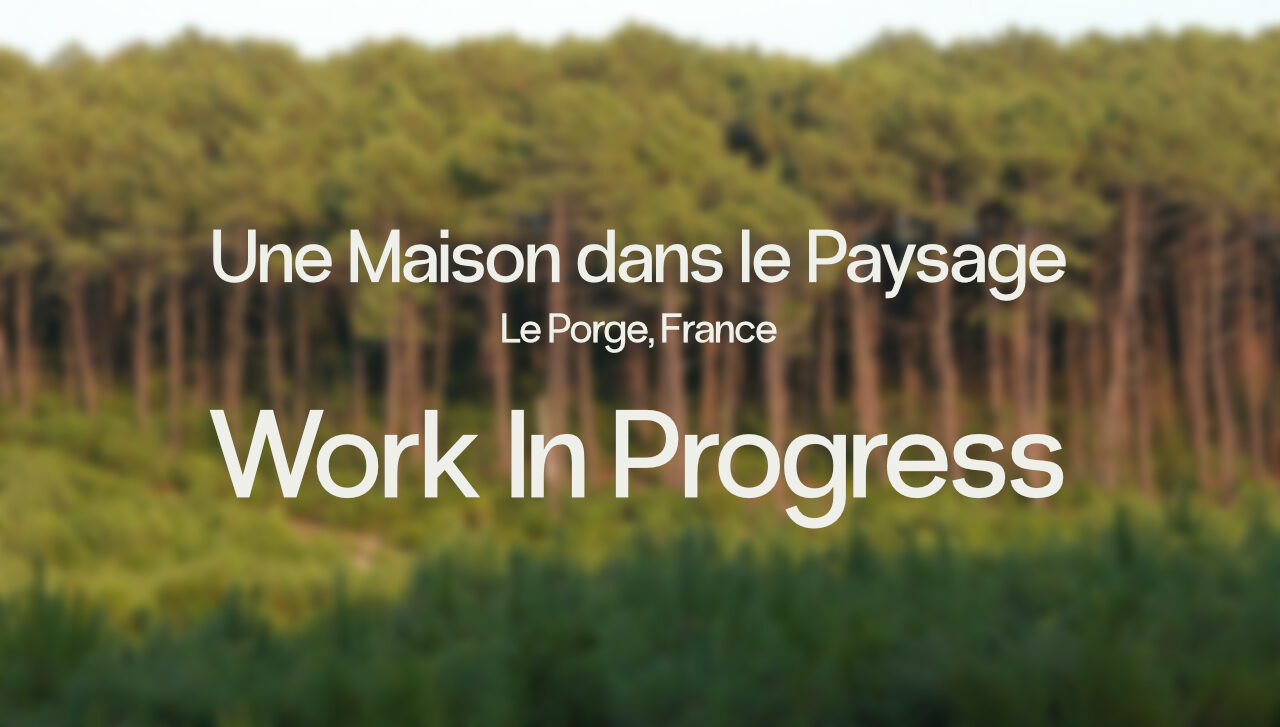
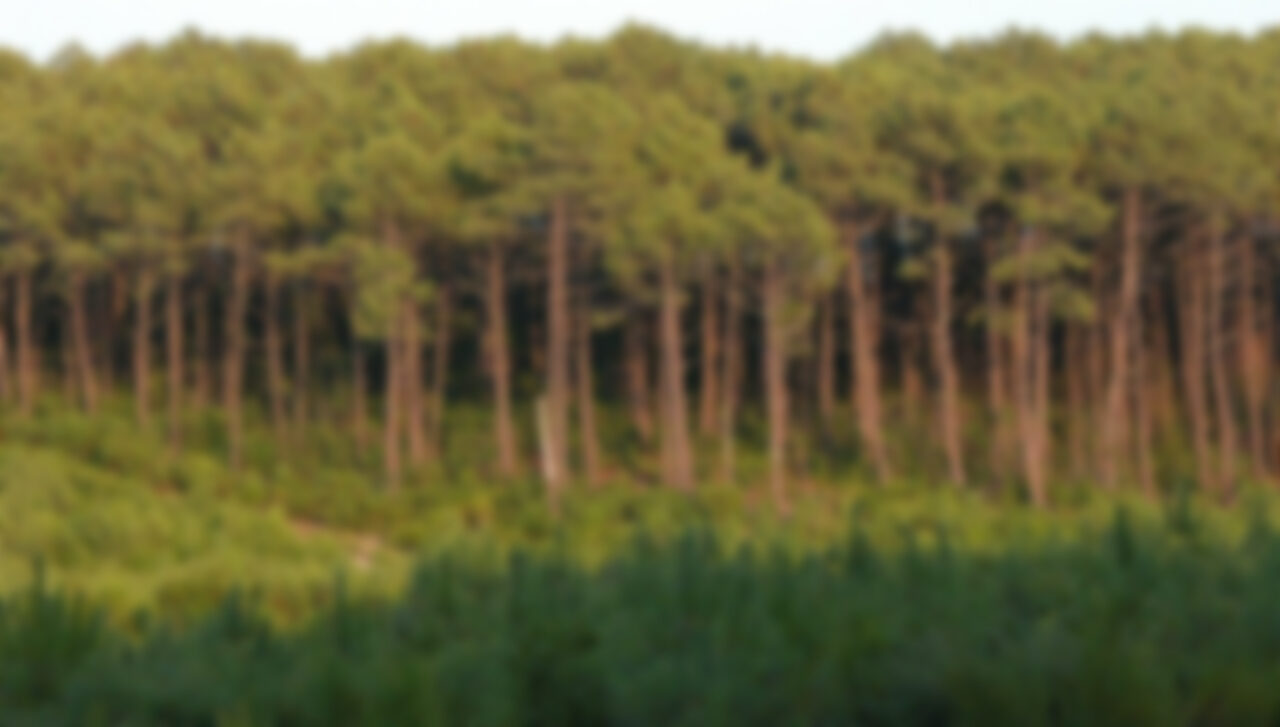
Add files via upload

Changed region(s): [[0.1562, 0.5447, 0.8438, 0.7263], [0.1562, 0.3026, 0.8438, 0.4237], [0.375, 0.4237, 0.625, 0.4842]]

diff --git a/supra-studio-nextjs/lib/projects.ts b/supra-studio-nextjs/lib/projects.ts
@@ -23,8 +23,8 @@ export const PROJECTS: Project[] = [
     location: "Sabaudia, Latina, Italia",
     type: "Aménagement extérieur",
     programme: "Jardin, piscine et terrasse d'une villa familiale",
-    surface: "450 m²",
-    annee: "2024",
+    surface: "300 m²",
+    annee: "2026",
     description: [
       "Niché entre pins parasols et essences méditerranéennes, ce jardin prolonge une villa familiale près de Sabaudia. Nous avons pensé chaque séquence — pergola, piscine, terrasse ombragée — comme une pièce à part entière de la maison, où la limite entre intérieur et extérieur s'efface.",
       "La palette végétale, choisie pour résister au climat local et évoluer avec les saisons, s'accorde aux matériaux en terre cuite et à la pierre existante, pour un jardin qui semble avoir toujours été là.",
@@ -40,10 +40,10 @@ export const PROJECTS: Project[] = [
     cat: "Architecture & architecture d'intérieur",
     name: "Maison Kléber",
     location: "Bordeaux, Gironde, France",
-    type: "Rénovation complète",
-    programme: "Appartement — chambre, salon et bureau",
-    surface: "85 m²",
-    annee: "2024",
+    type: "Construction neuve",
+    programme: "Maison familiale — loft inversé et rooftop",
+    surface: "120 m²",
+    annee: "2026",
     description: [
       "Cette rénovation complète d'un appartement bordelais a permis de redistribuer les espaces autour d'une circulation plus fluide, entre chambre, salon et bureau. Nous avons privilégié le bois clair, les rangements sur-mesure et une lumière naturelle abondante pour créer un lieu à la fois fonctionnel et apaisant.",
       "Chaque détail — de la bibliothèque intégrée au choix des luminaires — a été pensé pour accompagner le quotidien de ses habitants sur le long terme.",
@@ -56,10 +56,10 @@ export const PROJECTS: Project[] = [
     cat: "Architecture d'intérieur",
     name: "Casa Duy",
     location: "Rome, Lazio, Italia",
-    type: "Aménagement intérieur",
-    programme: "Salon et salle à manger d'un appartement particulier",
-    surface: "70 m²",
-    annee: "2023",
+    type: "Rénovation intérieure",
+    programme: "Ouverture des espaces de vie et redisposition des pièces",
+    surface: "81 m²",
+    annee: "2025",
     description: [
       "Casa Duy réinvente un appartement romain autour d'une palette chaleureuse de bois et de tons crème, où chaque pièce dialogue avec la lumière naturelle. Le salon et la salle à manger s'organisent autour d'une bibliothèque sur-mesure, point d'ancrage du lieu.",
       "Le mobilier, choisi avec soin, mêle pièces contemporaines et objets plus intemporels, pour un intérieur sensible, sans être figé dans un style unique.",
@@ -75,10 +75,10 @@ export const PROJECTS: Project[] = [
     cat: "Architecture d'intérieur",
     name: "Brasserie",
     location: "Paris, France",
-    type: "Aménagement commercial",
-    programme: "Salle, bar et cuisine ouverte d'une brasserie",
-    surface: "180 m²",
-    annee: "2023",
+    type: "Rénovation professionnelle complète",
+    programme: "Salle de restauration, bar, cuisine principale et secondaire, sanitaires",
+    surface: "205 m²",
+    annee: "2026",
     description: [
       "Pour cette brasserie parisienne, nous avons dessiné un espace où marbre vert, laiton et bois habillent le comptoir et la salle, dans une ambiance à la fois chaleureuse et intemporelle. La circulation entre bar, cuisine ouverte et salle a été repensée pour fluidifier le service.",
       "Chaque matériau a été choisi pour vieillir avec élégance, dans un lieu pensé pour accueillir aussi bien un déjeuner rapide qu'un dîner prolongé.",
@@ -91,10 +91,10 @@ export const PROJECTS: Project[] = [
     cat: "Architecture, architecture d'intérieur & paysage",
     name: "Une Maison dans le Paysage",
     location: "Le Porge, Gironde, France",
-    type: "Construction neuve",
-    programme: "Maison individuelle et aménagement paysager",
-    surface: "160 m²",
-    annee: "En cours",
+    type: "Conception architecturale et paysagère",
+    programme: "Jardin, piscine, terrasse, extension et construction neuve",
+    surface: "148 m²",
+    annee: "2026",
     wip: true,
   },
 ];
